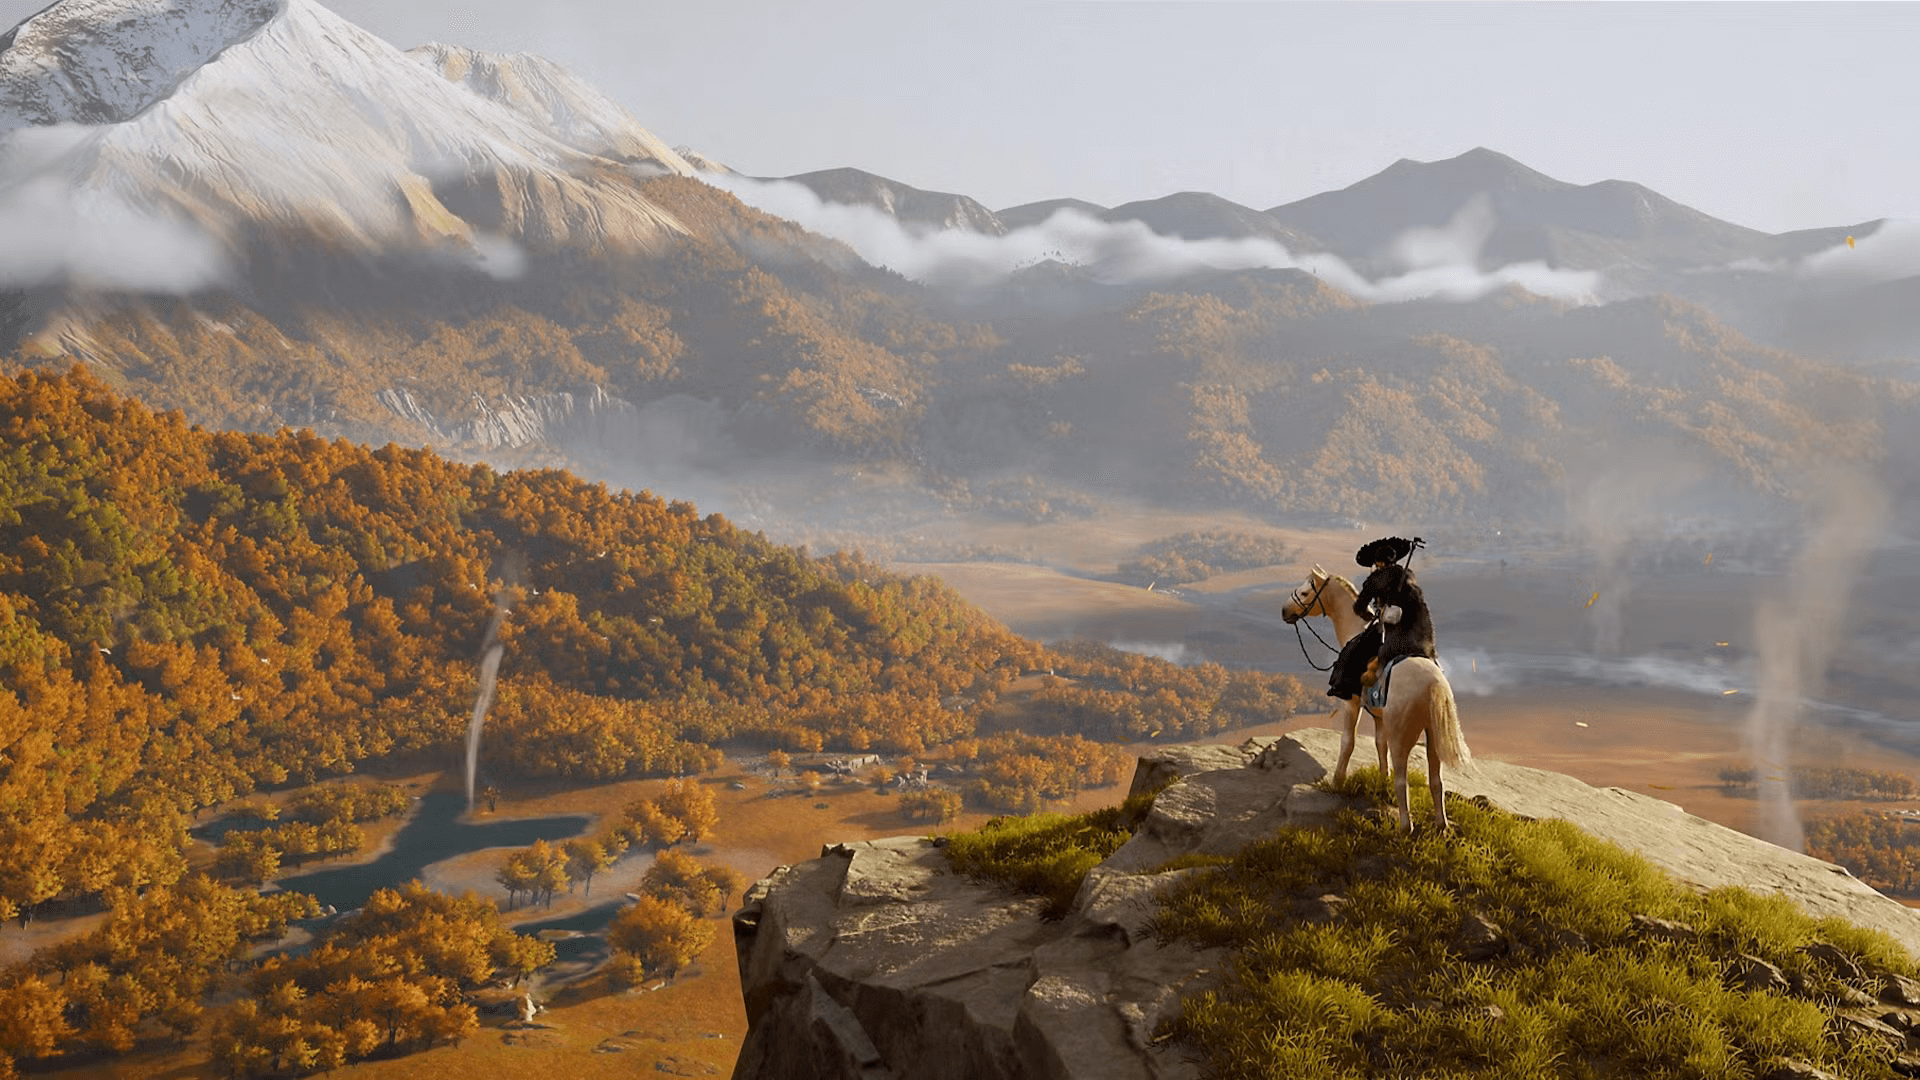
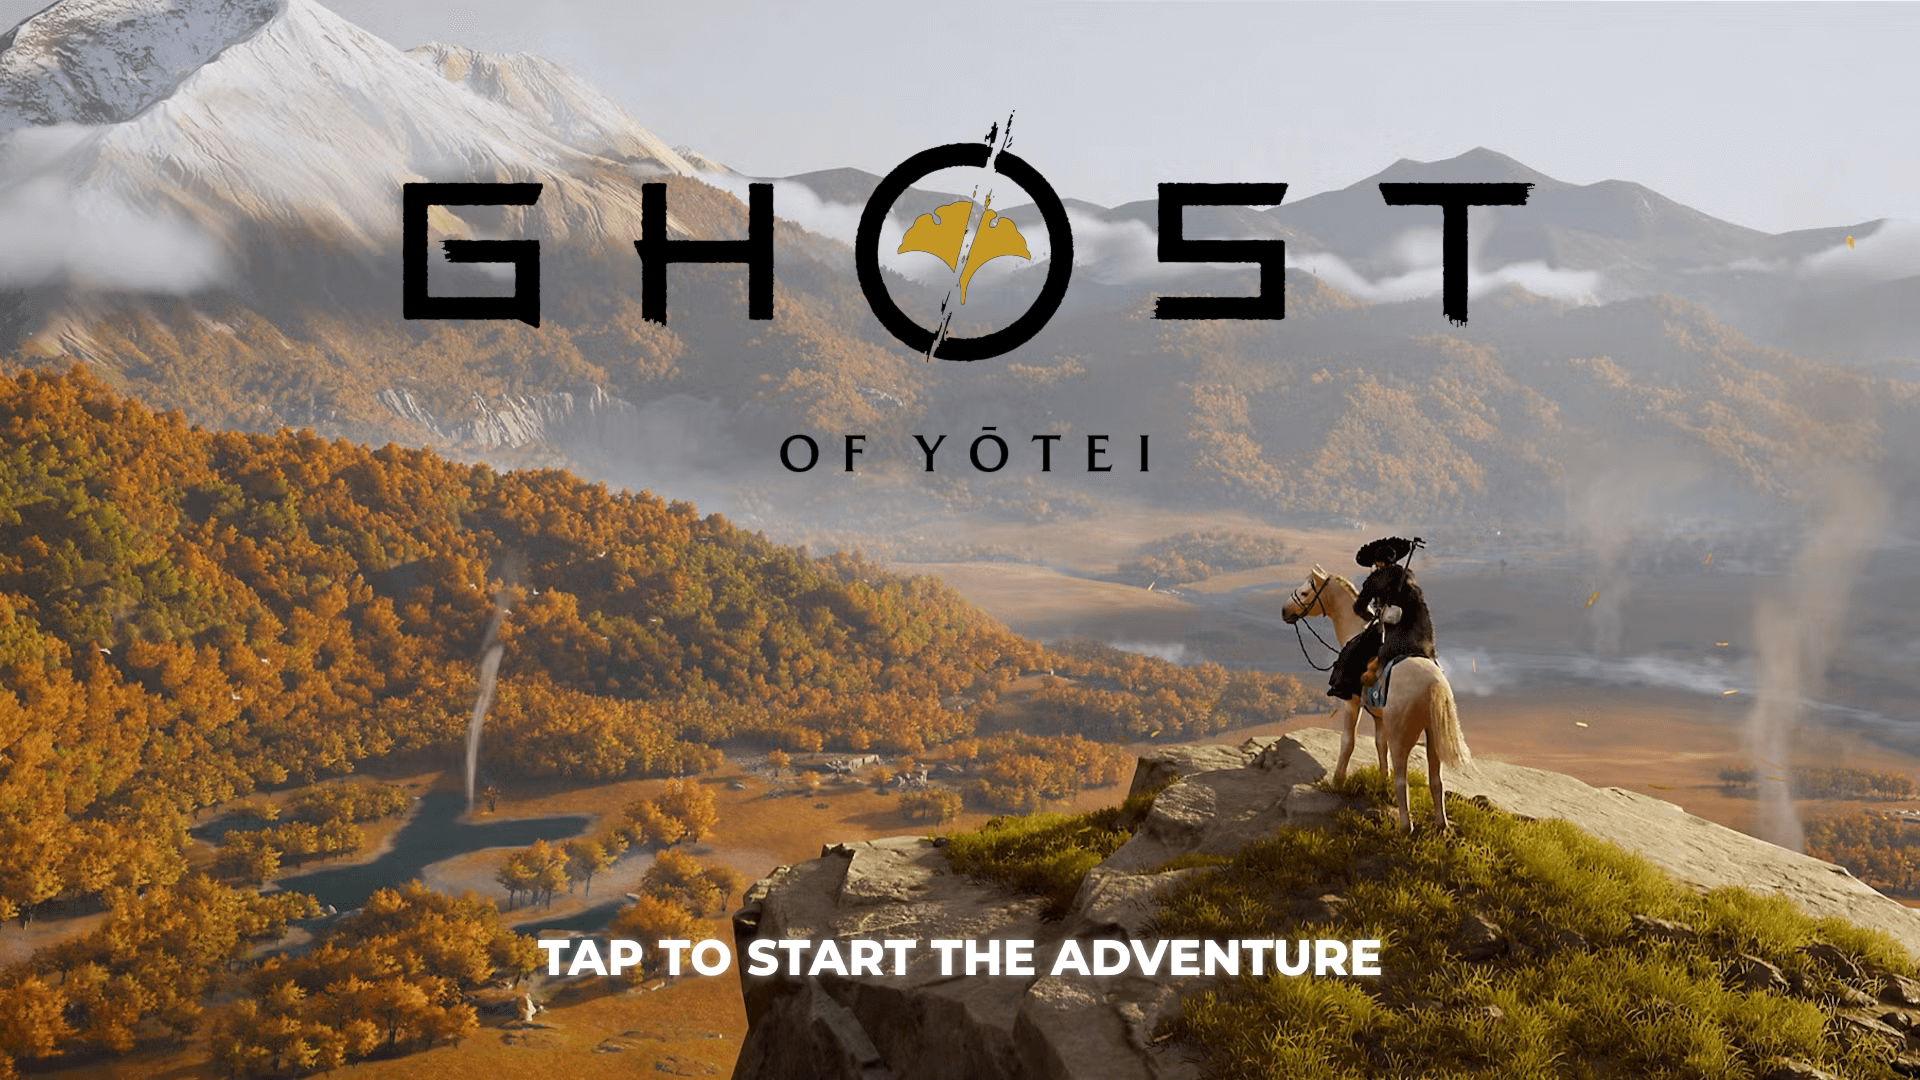
committt

diff --git a/ghostOfYotei/playable/assets/index-CEFQgh2C.js b/ghostOfYotei/playable/assets/index-CEFQgh2C.js
@@ -1,0 +1,1 @@
+import{p as e}from"./phaser-C2RWnc_5.js";!function(){const e=document.createElement("link").relList;if(!(e&&e.supports&&e.supports("modulepreload"))){for(const e of document.querySelectorAll('link[rel="modulepreload"]'))t(e);new MutationObserver((e=>{for(const i of e)if("childList"===i.type)for(const e of i.addedNodes)"LINK"===e.tagName&&"modulepreload"===e.rel&&t(e)})).observe(document,{childList:!0,subtree:!0})}function t(e){if(e.ep)return;e.ep=!0;const t=function(e){const t={};return e.integrity&&(t.integrity=e.integrity),e.referrerPolicy&&(t.referrerPolicy=e.referrerPolicy),"use-credentials"===e.crossOrigin?t.credentials="include":"anonymous"===e.crossOrigin?t.credentials="omit":t.credentials="same-origin",t}(e);fetch(e.href,t)}}();class t extends e.Scene{constructor(){super("Boot")}preload(){}create(){this.scene.start("Preloader")}}function i(e,t){const i=/Mobi|Android/i.test(navigator.userAgent),s=/iPhone/i.test(navigator.userAgent),a=window.innerWidth,o=window.innerHeight;let n,r;n=e.game.canvas.width,r=e.game.canvas.height;const h=document.getElementsByTagName("canvas")[0],d=Math.abs(parseFloat(h.style.marginTop||0))/a*n+(s?130:0),c=Math.abs(parseFloat(h.style.marginLeft||0))/o*r;let l=o/(a+2*c)*.85;return i?{canvasWidth:n,canvasHeight:r,scaleFactor:l,topMarginOffset:d,leftMarginOffsetPercentage:c,isMobileDevice:i,isIphoneDevice:s}:(l=1.4,{canvasWidth:n,canvasHeight:r,scaleFactor:l,topMarginOffset:0,leftMarginOffsetPercentage:0})}class s extends e.Scene{constructor(){super("MainMenu")}create(){const{canvasWidth:e,canvasHeight:t,scaleFactor1:s,topMarginOffset:a,leftMarginOffsetPercentage:o,isMobileDevice:n,isIphoneDevice:r}=i(this);this.canvasHeight=t,this.canvasWidth=e,this.video=this.add.video(e/2,t/2,"ghostvideo"),this.video.setOrigin(.5),this.video.setScale(1.8),this.video.setCurrentTime(3),this.video.bool=!1,this.videoOnePlayed=!1,this.videoTime=0,this.input.once("pointerdown",(()=>{console.log("Video started"),this.tweens.add({targets:[this.bg1],alpha:0,scale:{from:1,to:1.4},duration:800,ease:"Power2"}),this.video.play()})),this.bg1=this.add.image(e/2,t/2,"bg1"),this.bg1.setOrigin(.5).setAlpha(1),this.bg1.setScale(s),this.getnow=this.add.image(e/2,1.1*t,"getnow"),this.getnow.setOrigin(.5).setAlpha(1),this.getnow.setScale(1),this.tweens.add({targets:this.getnow,scale:{from:1,to:1.2},duration:500,ease:"Power2",yoyo:!0,repeat:-1}),this.sword=this.add.image(.7*e,t/2,"sword"),this.sword.setOrigin(.5).setAlpha(0),this.sword.setScale(.5),this.sword.on("pointerdown",(()=>{this.video.setCurrentTime(this.videoTime),this.video.resume(),this.video.bool=!1,this.sword.destroy()})),this.video.on("complete",(()=>{console.log("Video completed")}))}update(){console.log(this.video.getCurrentTime()),this.video.getCurrentTime()>=18.5&&this.video.getCurrentTime()<=18.6&&!this.video.bool&&!this.videoOnePlayed?(this.video.bool=!0,this.videoOnePlayed=!0,this.videoTime=this.video.getCurrentTime(),this.video.pause(),console.log("Video paused at 18 seconds"),this.sword.setAlpha(1),this.tweens.add({targets:this.sword,scale:{from:.5,to:.6},delay:1e3,duration:350,ease:"Power2",yoyo:!1,repeat:-1}),this.sword.setInteractive()):this.video.getCurrentTime()>=51.9&&this.video.getCurrentTime()<=52&&!this.video.bool&&(this.video.bool=!0,this.tweens.add({targets:this.video,volume:0,alpha:0,duration:800,ease:"Power2"}),this.bg1.setTexture("cta"),this.tweens.add({targets:this.bg1,alpha:1,scale:{from:1.6,to:1.2},duration:800,ease:"Power2"}),this.tweens.add({targets:this.getnow,y:.9*this.canvasHeight,duration:800,ease:"Power2"}))}}class a extends e.Scene{constructor(){super("Preloader")}init(){const{canvasWidth:e,canvasHeight:t,scaleFactor:s,topMarginOffset:a,leftMarginOffsetPercentage:o,isMobileDevice:n,isIphoneDevice:r}=i(this);this.canvasWidth=e,this.canvasHeight=t,this.scaleFactor=s}createLoadingUI(){this.add.text(this.canvasWidth/2,this.canvasHeight/2-50*this.scaleFactor,"",{fontFamily:"PoppinsSemiBold",fontSize:28*this.scaleFactor,color:"#FFFFFF",align:"center",stroke:"#E10E14",strokeThickness:5}).setOrigin(.5);const e=.6*this.canvasWidth,t=25*this.scaleFactor,i=12*this.scaleFactor;this.loadingBarContainer=this.add.graphics(),this.loadingBarContainer.lineStyle(3*this.scaleFactor,14749204,1),this.loadingBarContainer.fillStyle(3355443,1),this.loadingBarContainer.fillRoundedRect(this.canvasWidth/2-e/2,this.canvasHeight/2-t/2,e,t,i),this.loadingBarContainer.strokeRoundedRect(this.canvasWidth/2-e/2,this.canvasHeight/2-t/2,e,t,i),this.loadingBarGraphics=this.add.graphics(),this.barWidth=e,this.barHeight=t,this.borderRadius=i,this.barX=this.canvasWidth/2-e/2,this.barY=this.canvasHeight/2-t/2,this.percentText=this.add.text(this.canvasWidth/2,this.canvasHeight/2+40*this.scaleFactor,"0%",{fontFamily:"BukaBird",fontSize:22*this.scaleFactor,color:"#FFFFFF",align:"center",stroke:"#000000",strokeThickness:3}),this.percentText.setOrigin(.5)}preload(){this.load.on("progress",(e=>{})),this.load.on("complete",(()=>{console.log("All assets loaded"),this.scene.start("MainMenu")})),this.load.setPath(window.trackingPath),this.load.image("bg1","bg1.png"),this.load.image("sword","sword.png"),this.load.video("ghostvideo","ghost.mp4"),this.load.image("getnow","getnow.png"),this.load.image("cta","cta.png")}create(){}}const o={type:Phaser.AUTO,width:1440,height:960,parent:"game-container",background:"transparent",scale:{mode:Phaser.Scale.FIT,autoCenter:Phaser.Scale.CENTER_BOTH},fps:{target:60,forceSetTimeOut:!0},transparent:!0,scene:[t,a,s]};new Phaser.Game(o);

diff --git a/ghostOfYotei/playable/index.html b/ghostOfYotei/playable/index.html
@@ -108,7 +108,7 @@
         background-color: #000000;
       }
     </style>
-    <script type="module" crossorigin src="./assets/index-CLVo41mR.js"></script>
+    <script type="module" crossorigin src="./assets/index-CEFQgh2C.js"></script>
     <link rel="modulepreload" crossorigin href="./assets/phaser-C2RWnc_5.js">
   </head>
 
